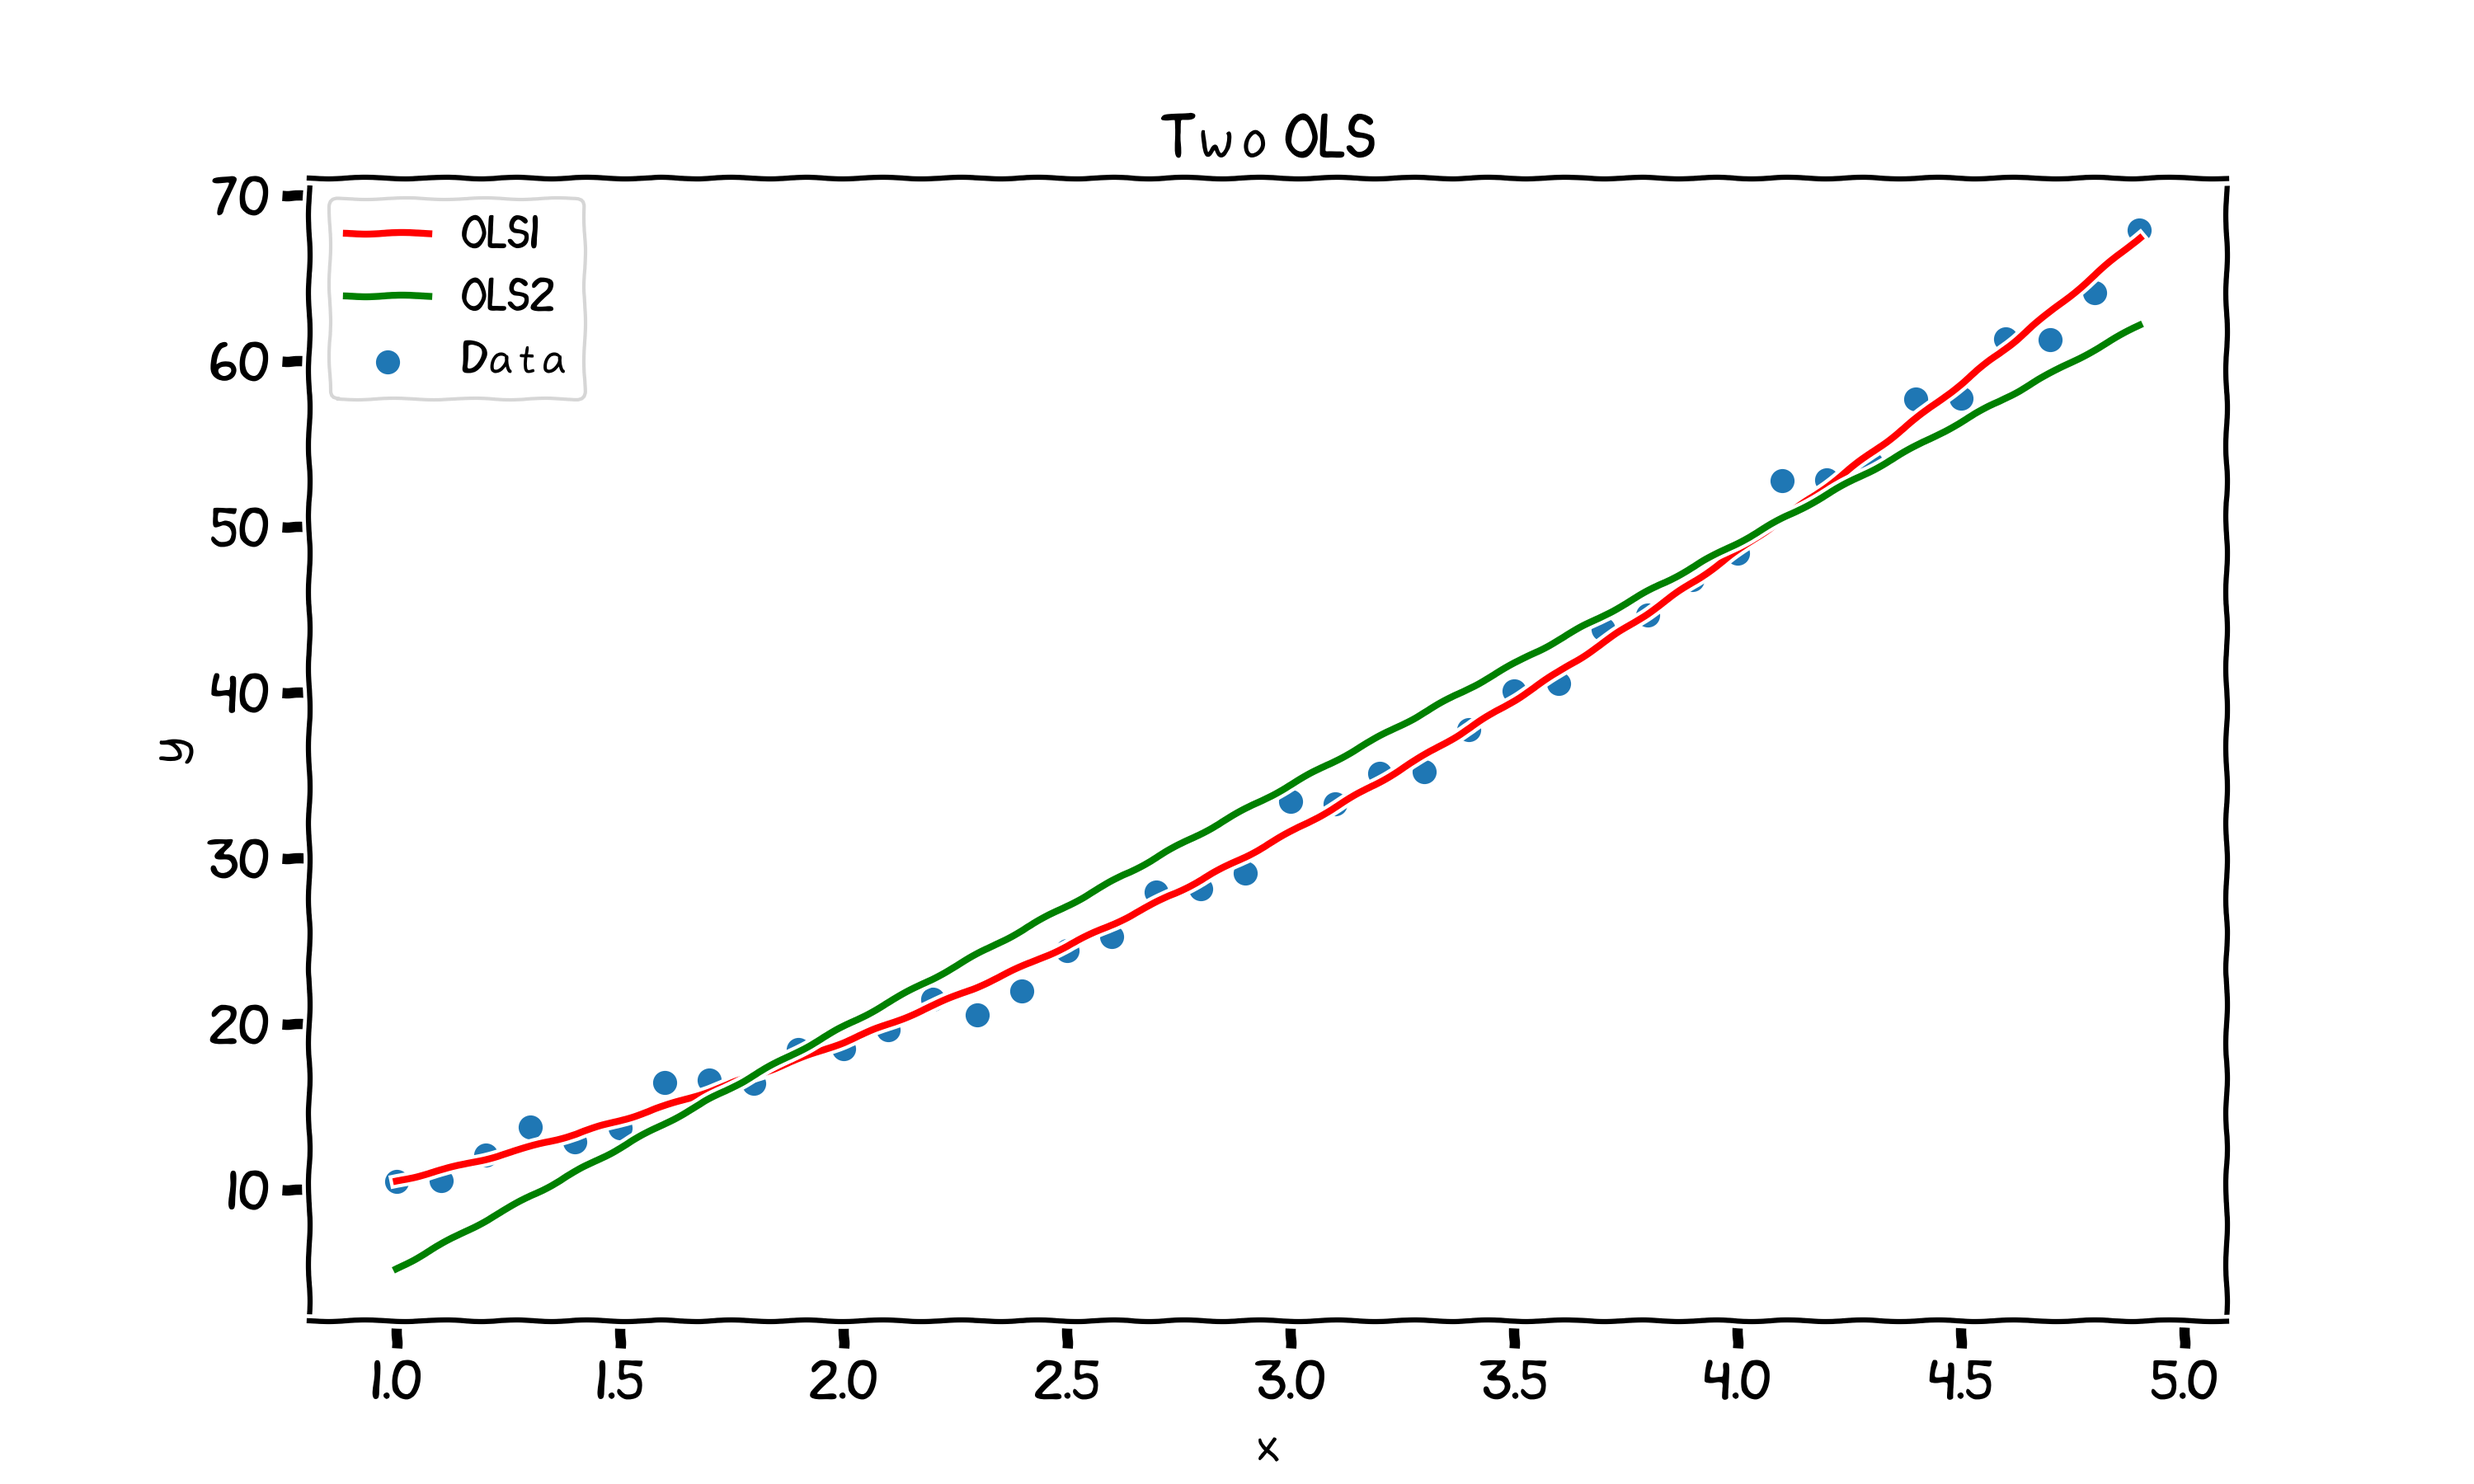
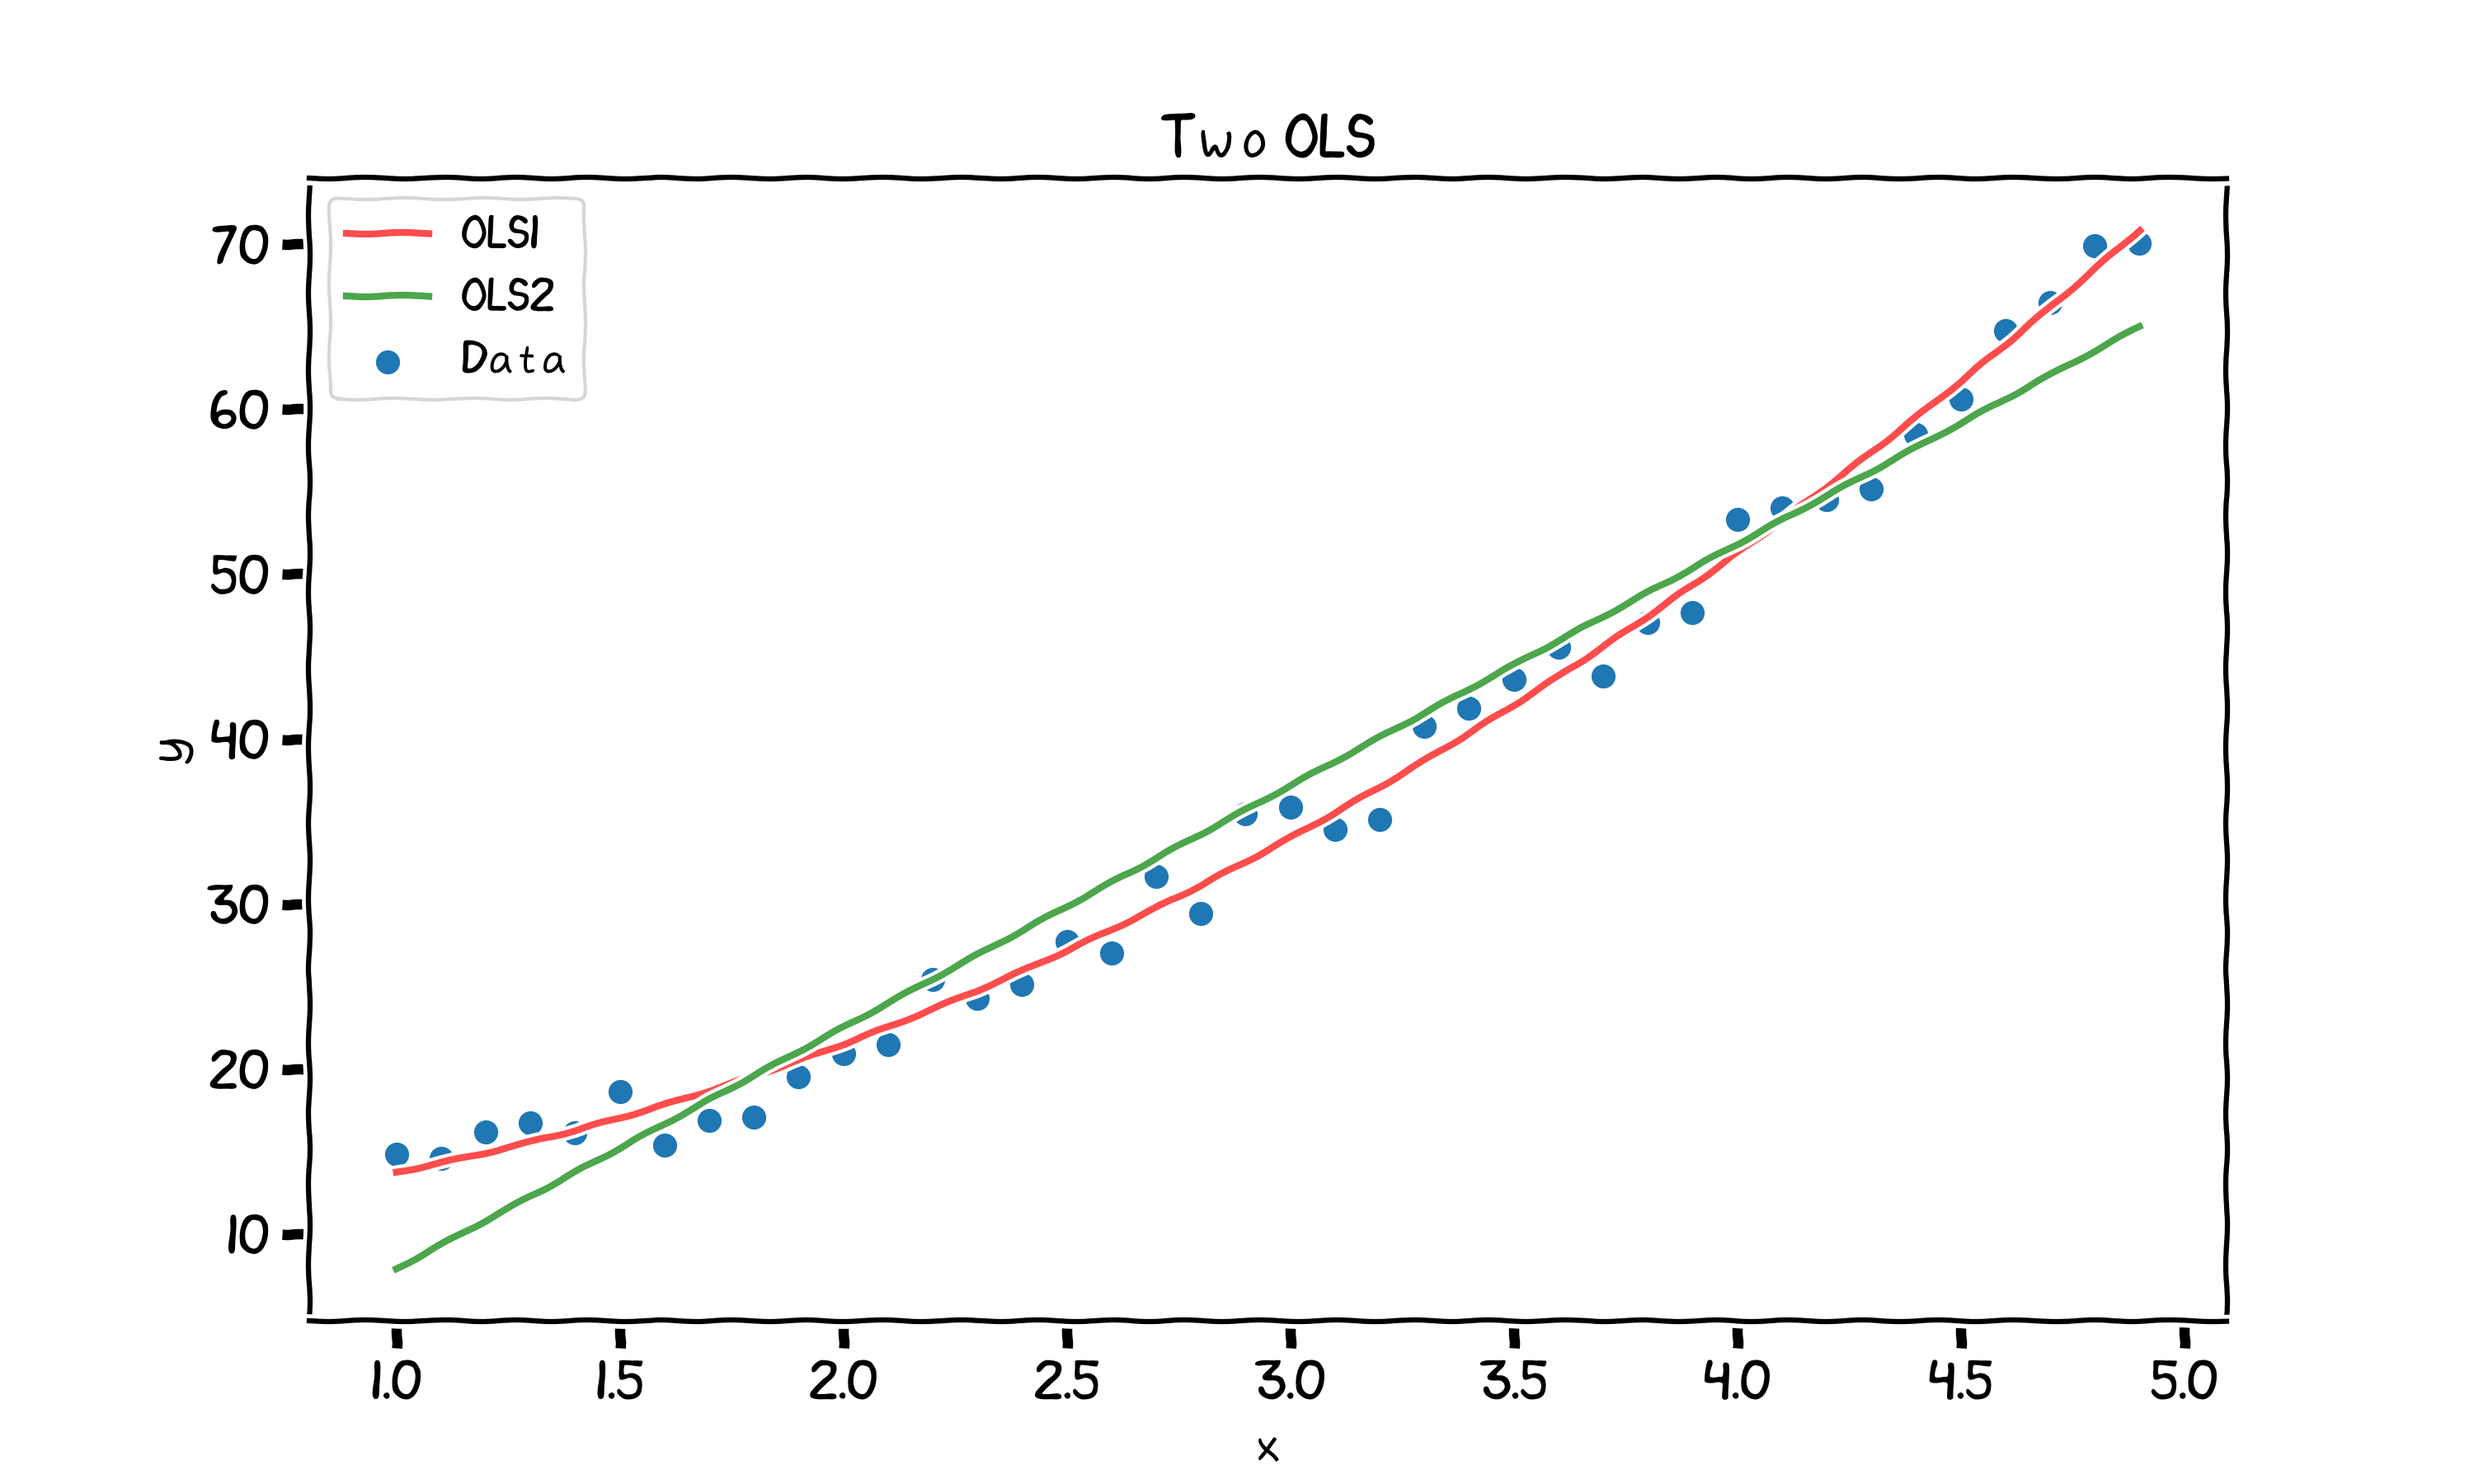
Re-arrange python codes for chap3

diff --git a/chap3/python/01_ols.py b/chap3/python/01_ols.py
@@ -1,0 +1,177 @@
+import numpy as np
+import statsmodels.api as sm
+import matplotlib.pyplot as plt
+import scipy.stats as ss
+
+# ==============================================================================
+# Main
+# ==============================================================================
+def main():
+    np.random.seed(42)
+
+    # Prepare Data to Plot
+    x = np.arange(1, 5, 0.1)
+    err = np.random.randn(len(x))
+    y = 2 * x + 3 + err
+
+    X = np.matrix(x).T
+    X = sm.add_constant(X)
+    Y = np.matrix(y).T
+
+    ols = OLSEstimator(X, Y)
+    ols.estimate()
+    ols.test()
+
+    print("OLS: ")
+    ols.summary()
+
+    with plt.xkcd():
+        # Prepare Plot
+        plt.figure(figsize=(10,6), dpi=300)
+        plt.title(r"Simple OLS & Ridge", fontsize=16)
+        plt.xlabel(r'x', fontsize=14)
+        plt.ylabel(r'y', fontsize=14)
+
+        # Plot with Legends
+        plt.scatter(x, y, label='Data')
+        plt.plot(x, np.asarray(ols.y_hat).ravel(), 'r', label='OLS')
+
+        # Other options
+        plt.legend(fontsize=12)
+
+    plt.savefig("simple_ols.png", dpi=300)
+
+    # Prepare Data to Plot
+    x1 = np.arange(1, 5, 0.1)
+    x2 = x1**2
+    err = np.random.rand(len(x1))
+    y = 2 * x2 + 3 * x1 + 5 + 5 * err
+
+    X1 = np.matrix(np.column_stack((x1, x2)))
+    X1 = sm.add_constant(X1)
+    X2 = np.matrix(x1).T
+    X2 = sm.add_constant(X2)
+    Y = np.matrix(y).T
+
+    ols_1 = OLSEstimator(X1, Y)
+    ols_2 = OLSEstimator(X2, Y)
+
+    ols_1.estimate()
+    ols_2.estimate()
+    ols_1.test()
+    ols_2.test()
+
+    print()
+    print("OLS1: ")
+    ols_1.summary()
+
+    print()
+    print("OLS2: ")
+    ols_2.summary()
+
+    f = ols_1.f_test(ols_2)
+    print()
+    print("F-Test: ", f)
+
+    with plt.xkcd():
+        # Prepare Plot
+        plt.figure(figsize=(10,6), dpi=300)
+        plt.title(r"Two OLS", fontsize=16)
+        plt.xlabel(r'x', fontsize=14)
+        plt.ylabel(r'y', fontsize=14)
+
+        # Plot with Legends
+        plt.scatter(x1, y, label='Data')
+        plt.plot(x1, np.asarray(ols_1.y_hat).ravel(), 'r', alpha=0.7, label='OLS1')
+        plt.plot(x1, np.asarray(ols_2.y_hat).ravel(), 'g', alpha=0.7, label='OLS2')
+
+        # Other options
+        plt.legend(fontsize=12)
+
+    plt.savefig("two_ols.png", dpi=300)
+
+# ==============================================================================
+# Estimate
+# ==============================================================================
+def find_beta_hat(X, y): # X should be np.matrix
+        return np.linalg.pinv(X) * y
+
+def find_y_hat(X, beta, y):
+    return X * beta
+
+# ==============================================================================
+# Test
+# ==============================================================================
+def find_sigma_hat(y, y_hat, p):
+    return np.sum((y - y_hat)**2) / (len(y) - p - 1)
+
+def calc_t_score(beta, X, sigma):
+    v = np.sqrt(np.diag(np.linalg.inv(X.T * X)))
+    return (beta / v) / np.sqrt(sigma)
+
+def calc_rss(y, y_hat):
+    return np.sum((y - y_hat)**2)
+
+def calc_F_score(rss_0, p_0, rss_1, p_1, N):
+    return ((rss_0 - rss_1) / (p_1 - p_0)) / (rss_1 / (N - p_1 - 1))
+
+def calc_p_value(d, z):
+    if z >= 0:
+        return (1 - d.cdf(z)) * 2
+    else:
+        return 1
+
+# ==============================================================================
+# OOP Implementation
+# ==============================================================================
+class OLSEstimator:
+    def __init__(self, X, Y):
+        self.X = X
+        self.Y = Y
+    
+    def estimate(self):
+        self.beta_hat = find_beta_hat(self.X, self.Y)
+        self.y_hat = find_y_hat(self.X, self.beta_hat, self.Y)
+    
+    def test(self):
+        self.N = self.Y.shape[0]
+        self.p = self.X.shape[1]-1
+
+        self.sigma_hat = find_sigma_hat(np.asarray(self.Y).ravel(), np.asarray(self.y_hat).ravel(), self.p)
+        self.t_score = calc_t_score(np.asarray(self.beta_hat).ravel(), self.X, self.sigma_hat)
+        self.rss = calc_rss(np.asarray(self.Y).ravel(), np.asarray(self.y_hat).ravel())
+        
+        t_dist = ss.t(df=self.N-self.p-1)
+
+        p_fun = lambda t: calc_p_value(t_dist, t)
+        p_fun = np.vectorize(p_fun)
+
+        self.p_value = p_fun(self.t_score)
+    
+    def summary(self):
+        print("N: ", self.N)
+        print("p: ", self.p)
+        print("beta: ", np.asarray(self.beta_hat).ravel())
+        print("sigma: ", self.sigma_hat)
+        print("t_score: ", self.t_score)
+        print("p_value: ", self.p_value)
+        print("rss: ", self.rss)
+
+    def f_test(self, other):
+        assert self.N == other.N
+        p = 0
+        f_score = 0.0
+        if self.p < other.p:
+            f_score = calc_F_score(self.rss, self.p, other.rss, other.p, self.N)
+            p = other.p
+        elif self.p > other.p:
+            f_score = calc_F_score(other.rss, other.p, self.rss, self.p, self.N)
+            p = self.p
+        
+        f_dist = ss.f(abs(self.p - other.p), self.N-p-1)
+        p_value = calc_p_value(f_dist, f_score)
+
+        return (f_score, p_value)
+
+if __name__ == "__main__":
+    main()
